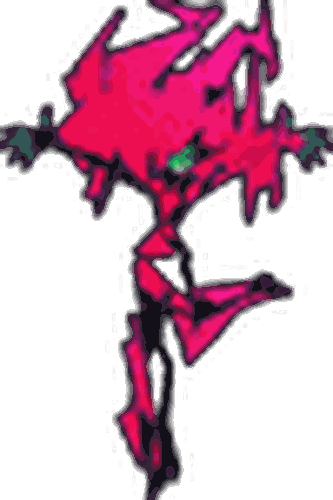
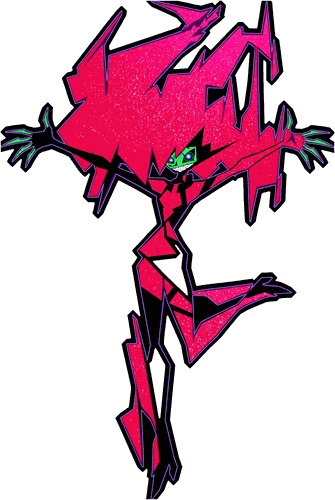
capri-shell 0.6.3: poses cut at full resolution by height

Changed region(s): [[0.0, 0.0, 1.0, 1.0]]

diff --git a/src/renderer/js/poses.js b/src/renderer/js/poses.js
@@ -14,7 +14,7 @@ export const POSES = {
   // generated (round 2 variant 2): the point at the sky, mane streaming back
   point: { file: 'pose-point.png', anchor: { x: 166, y: 536 } },
   // generated (round 2 retry, show laugh frames as references, variant 3): the cackle, mane exploded
-  cackle: { file: 'pose-cackle.png', anchor: { x: 151, y: 499 } },
+  cackle: { file: 'pose-cackle.png', anchor: { x: 152, y: 498 } },
 };
 
 export class PoseLayer {

diff --git a/tools/make-pose.py b/tools/make-pose.py
@@ -1,6 +1,6 @@
 """Register a generated (or cut) drawing of Capri as a key pose for poses.js.
 
-    python tools/make-pose.py <image.png> <name> [--anchor feet|seat|head] [--face-width 49]
+    python tools/make-pose.py <image.png> <name> [--anchor feet|seat|head] [--face-width 49 | --height 500]
 
 Mattes her out with the palette rule from cut-pose.py (a transparent PNG passes through),
 scales her so the face plate is the sprite's size (49 px wide on capri-full.png), writes
@@ -85,6 +85,9 @@ def main():
     src, name = a[0], a[1]
     kind = a[a.index('--anchor') + 1] if '--anchor' in a else 'feet'
     want = int(a[a.index('--face-width') + 1]) if '--face-width' in a else SPRITE_FACE_WIDTH
+    # --height H: scale the whole figure to H sprite pixels tall instead of matching the face
+    # plate (the plate finder is fooled by green hands near the face); her standing rig is 420
+    height = int(a[a.index('--height') + 1]) if '--height' in a else None
     img = Image.open(src).convert('RGBA')
     if img.getchannel('A').getextrema()[0] == 255:
         # an opaque render on a flat background: key the background out from the corners
@@ -95,15 +98,19 @@ def main():
         img, _ = cut(str(tmp))
         tmp.unlink(missing_ok=True)
     rgba = np.asarray(img)
-    fw = face_width(rgba)
-    if not fw:
-        raise SystemExit('no face plate found (no green near the top)')
-    k = want / fw
+    if height:
+        fw = None
+        k = height / img.height
+    else:
+        fw = face_width(rgba)
+        if not fw:
+            raise SystemExit('no face plate found (no green near the top)')
+        k = want / fw
     out = img.resize((max(1, round(img.width * k)), max(1, round(img.height * k))), Image.LANCZOS)
     ax, ay = anchor_for(np.asarray(out)[..., 3], kind)
     dst = ROOT / 'assets' / 'capri' / f'pose-{name}.png'
     out.quantize(colors=96, method=Image.Quantize.FASTOCTREE, dither=Image.Dither.NONE).save(dst, optimize=True)
-    print(f'wrote {dst} {out.size} (face plate {fw}px -> {want}px, x{k:.2f})')
+    print(f'wrote {dst} {out.size} (' + (f'{height}px tall' if height else f'face plate {fw}px -> {want}px') + f', x{k:.2f})')
     print(f"  {name}: {{ file: 'pose-{name}.png', anchor: {{ x: {ax}, y: {ay} }} }},  // anchor: {kind}")
 
 

diff --git a/README.md b/README.md
@@ -35,6 +35,7 @@ npm test
 
 ## Versions
 
+- 0.6.3: make-pose takes `--height` (the figure's height in sprite px) and cuts at full resolution.
 - 0.6.2: the cackle (retry with the show's laugh frames only; one of four kept).
 - 0.6.1: the point at the sky (round 2, one of four kept).
 - 0.6.0: the first generated pose, the crouch (Nano Banana with show frames as references, one
